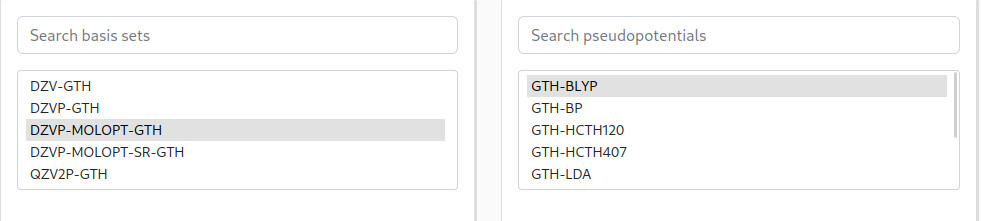
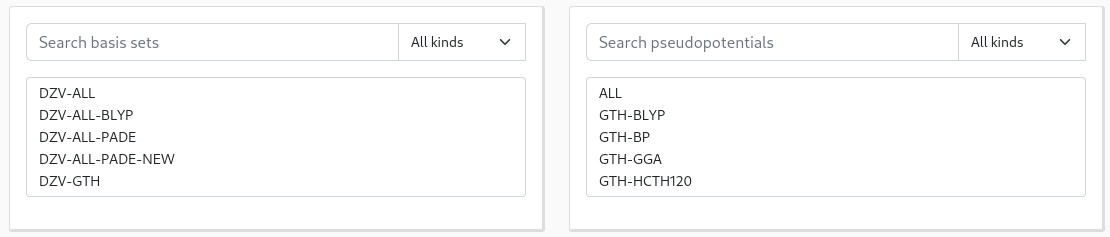
update webserver.md doc

Changed region(s): [[0.0, 0.0, 1.0, 1.0], [0.5199, 0.543, 0.6422, 0.6244]]

diff --git a/docs/users/api.md b/docs/users/api.md
@@ -122,6 +122,8 @@ Options:
 | `pp_name`  | String   | Restrict the output to a subset of pseudopotentials containing the given name (case insensitive). |
 | `pp_kind`  | String   | Restrict the output to a subset of pseudopotentials having the given kind.                        |
 
+Available kinds are listed [there](webserver.md#if-you-already-know-the-method).
+
 Output:
 
 | Field                     | Type           | Description                                 |
@@ -134,7 +136,7 @@ Output:
 [Example](https://cp2k-basis.pierrebeaujean.net/api/names?elements=Ti):
 
 ```bash
-curl https://cp2k-basis.pierrebeaujean.net/api/names?elements=Ti
+curl 'https://cp2k-basis.pierrebeaujean.net/api/names?elements=Ti&pp_name=PBE&bs_kind=SR'
 ```
 
 ```json
@@ -148,14 +150,13 @@ curl https://cp2k-basis.pierrebeaujean.net/api/names?elements=Ti
   "result": {
     "basis_sets": [
       "DZVP-MOLOPT-SR-GTH",
-      "SZV-MOLOPT-SR-GTH"
+      "SZV-MOLOPT-SR-GTH",
+      "TZV2P-MOLOPT-SR-GTH",
+      "TZVP-MOLOPT-SR-GTH"
     ],
     "pseudopotentials": [
-      "GTH-BLYP",
-      "GTH-BP",
-      "GTH-LDA",
-      "GTH-PADE",
-      "GTH-PBE"
+      "GTH-PBE",
+      "GTH-PBE0"
     ]
   }
 }

diff --git a/docs/users/webserver.md b/docs/users/webserver.md
@@ -55,6 +55,16 @@ You can use the search bar in the top of each list to quickly access the basis s
 
 ![](../images/webserver_search.jpg)
 
+It is also possible to sort the basis set per *kind*, with the dropdown on the right.
+The following kinds are available:
+
+| Kind      | Description                                                    |
+|-----------|----------------------------------------------------------------|
+| `GTH`     | GTH basis sets or pseudopotential. Opposite of `ALL`           |
+| `ALL`     | All-electron basis set or (pseudo)potential. Opposite of `GTH` |
+| `MOLOPT`  | MOLOPT basis sets                                              |
+ | `SR`      | Short-range/confined basis sets, better for solids             |
+
 In the periodic table below, the **red borders indicate that the basis set is available** for these atoms, while the **blue borders indicates that the pseudopotential is available**:
 
 ![](../images/webserver_pt_selected.jpg)
